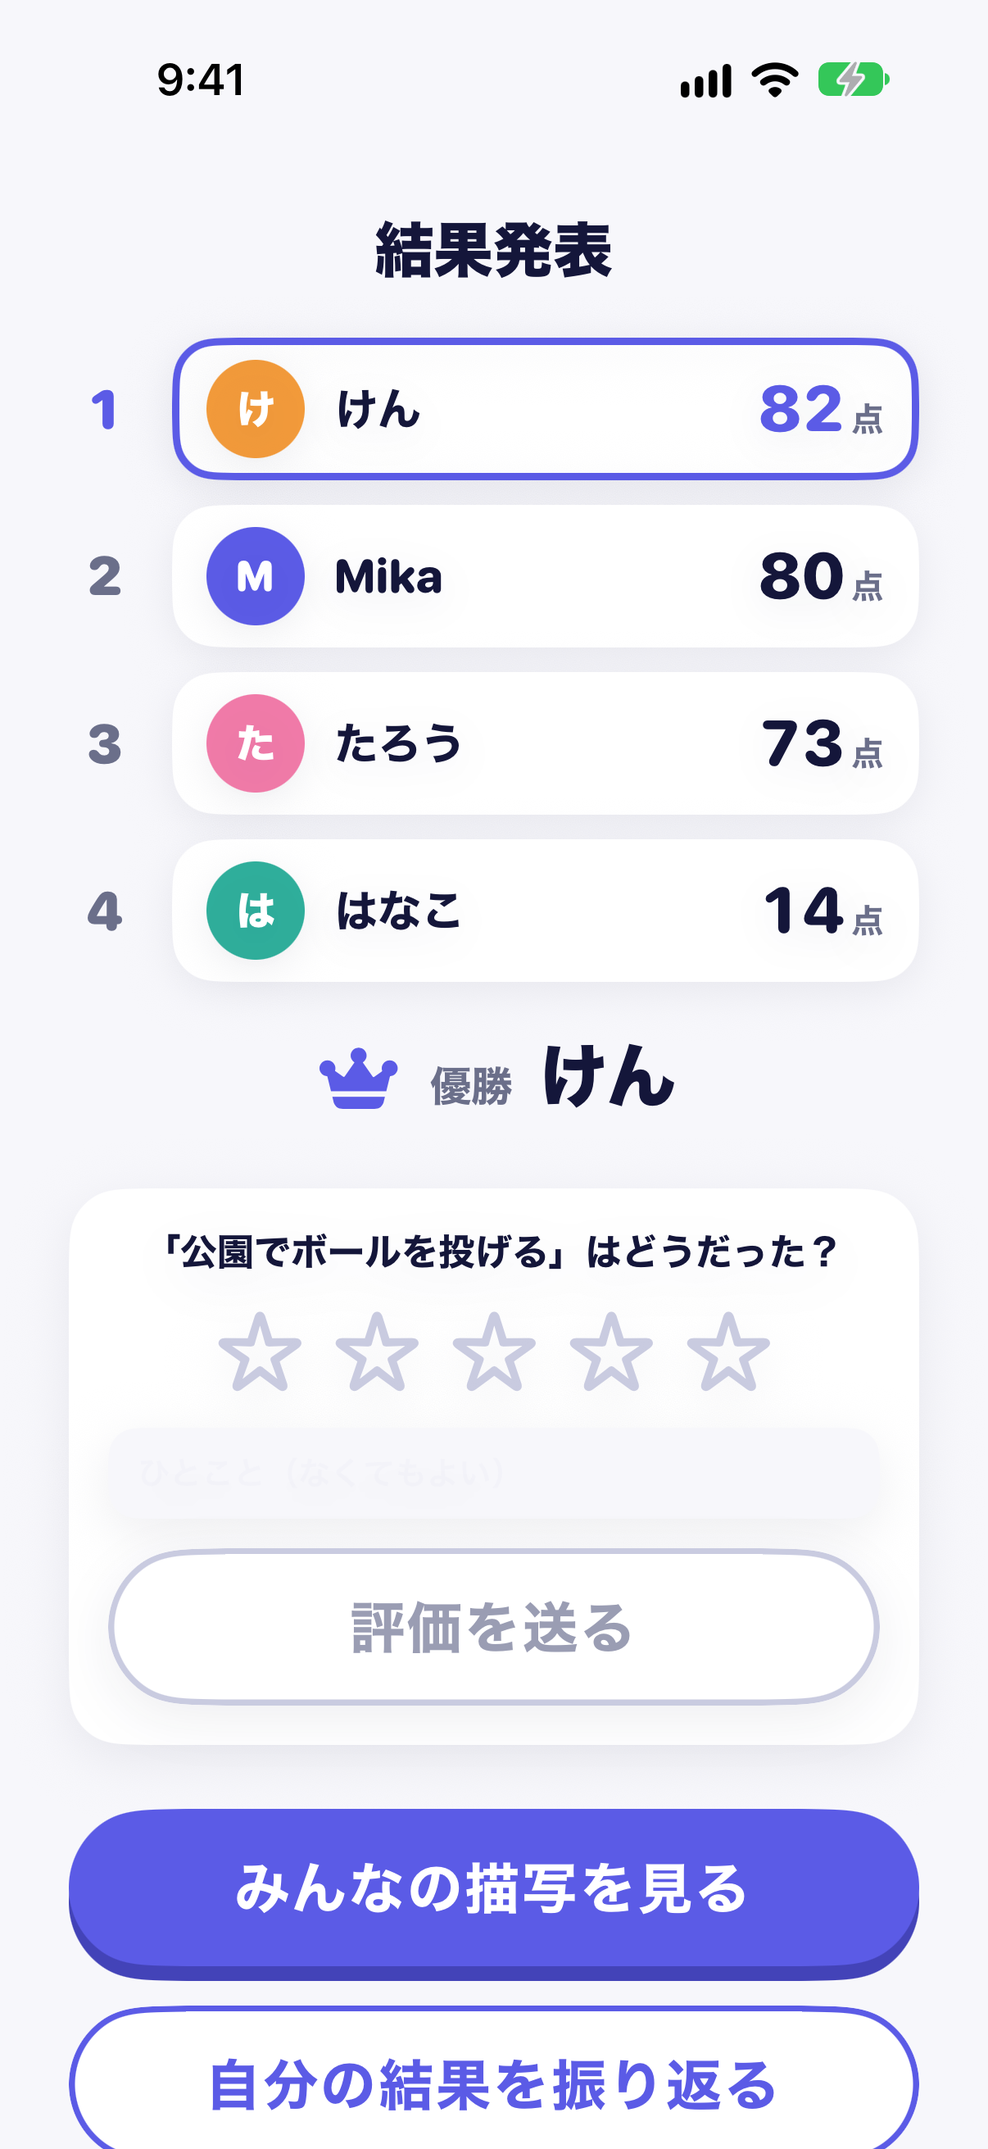
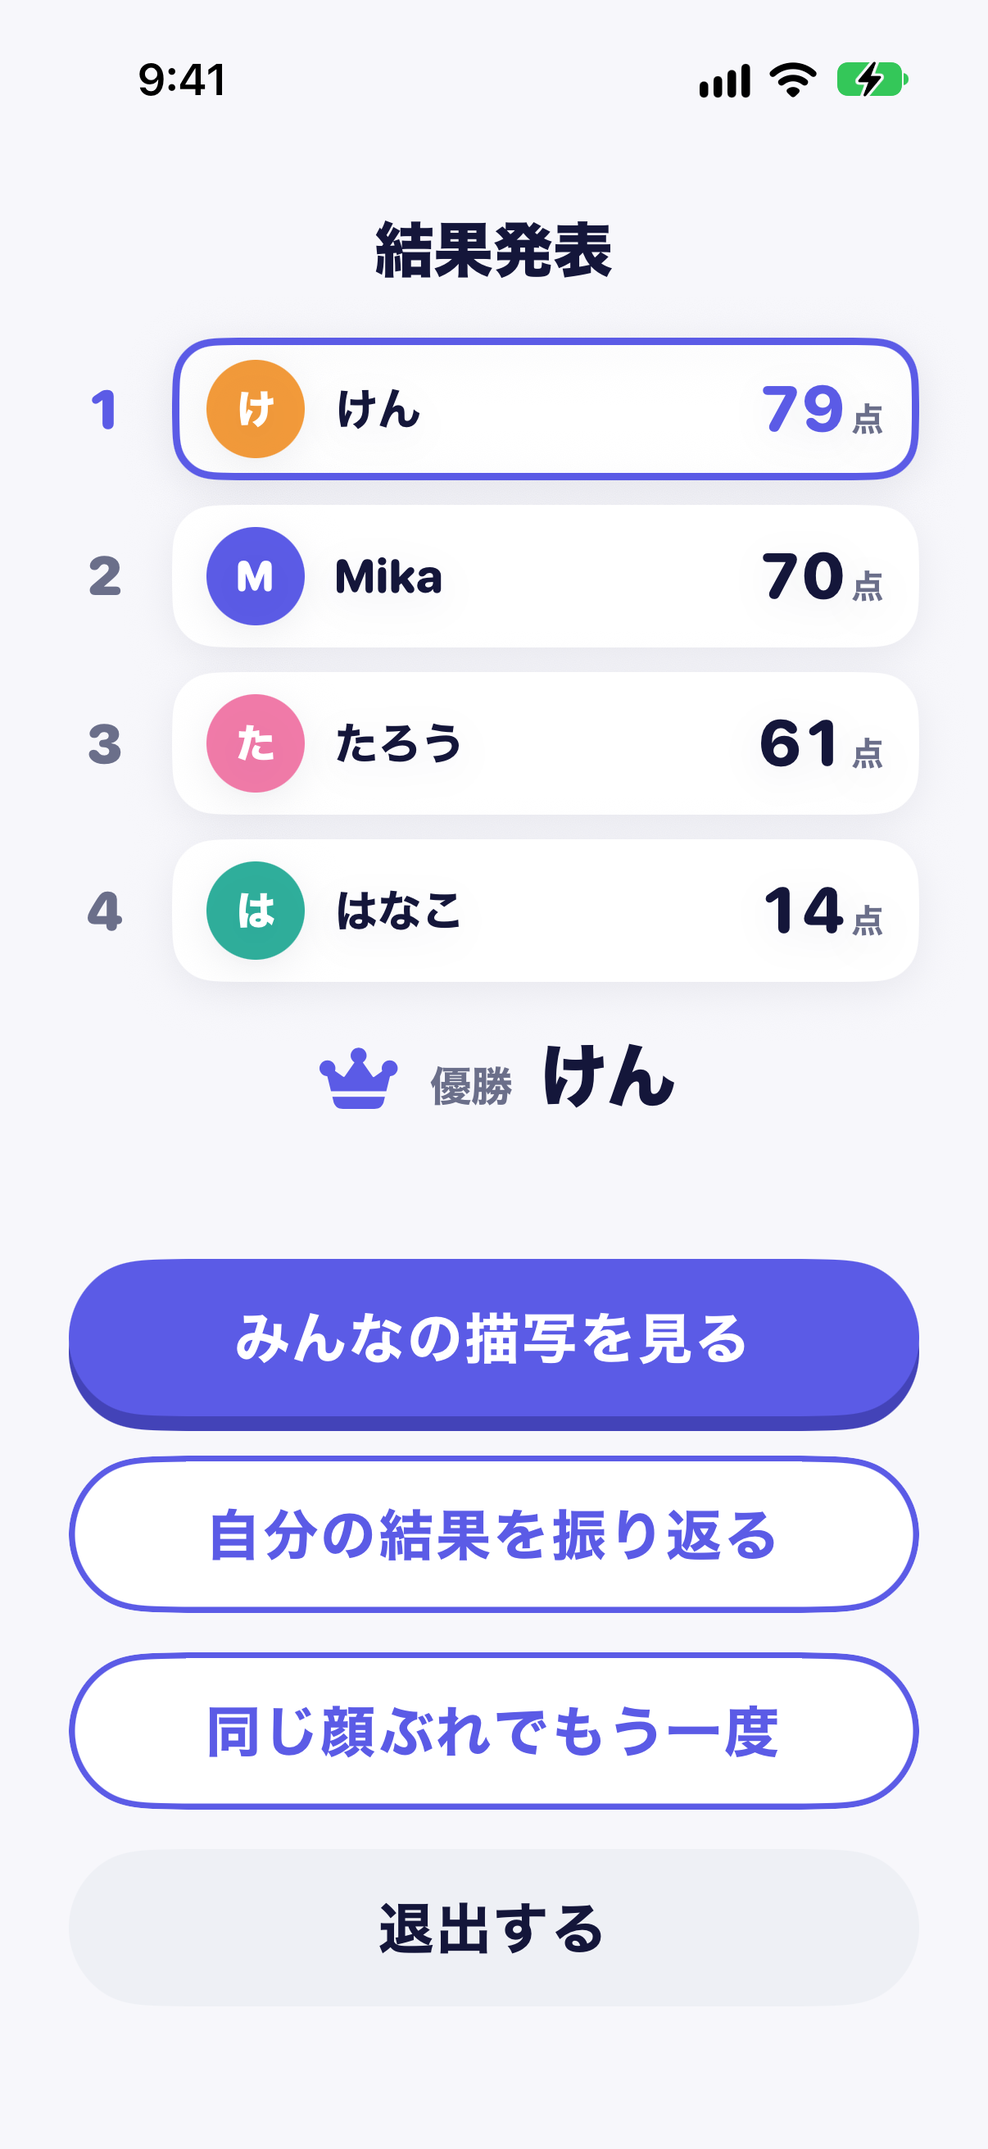
feat(ios): 結果の画面から場面の★評価を外す (#131)
## 概要

TestFlight 1.0.1 (4)
をチームで遊んだとき、結果の画面の「場面の★評価（★とコメントを送る）」のカードが「何のためにあるか分からない、邪魔」と声が出ました。リーダーの判断で、アプリから外します。サーバーの口とデータは残すので、戻せます。

## 変えたこと

### iOS
- 結果の画面（`RankingView`）から★評価のカードを外した。カードが無いときの並びは、もともと AI
で作った場面のときと同じ形で、人数が少なければボタンが下に寄り、8 人ならスクロールで全部のボタンに届く。
- 使わなくなったコードを消した: `SceneRatingCard.swift`（カードと
`StarPicker`）、`SceneReviewClient.swift`（口・HTTP の実装・Mock・端末ごとの
ID）、カードを出す判定だけに使っていた `ScenePool.contains(_:)` とそのテスト。
- ★評価のためだけに作っていた端末ごとの ID（UserDefaults の
`sceneReviews.reviewerID`）は、今の版では作らない。前の版で評価を送った端末に残っているキーは消さない（読みも送りもしない。戻すときに同じ端末の評価を上書きできる）。
- `PrivacyInfo.xcprivacy` はコメントだけ直した（申告の中身は今のコードと合っている）。

### 残したもの
- `backend/` は変えていない（GET・PUT `/scenes/:id/reviews`、Durable Object
`SceneReviews`、`openapi.json`）。Durable Object を消すには migration が要るため。
- ADR `20261024-store-scene-reviews-...`（保存先の決定）はそのまま。

### 文書（元の記述を残し、2026-11-13 に外したことと理由を書き足した）
- `PRIVACY_POLICY.md`:
評価は「評価の画面がある以前の版で送ったもの」とし、今の版（評価の画面が無い版）では作らず送らない、と書き分けた。端末に残すもの・削除の窓口の説明も事実に合わせた。
- `docs/app-store/README.md`: App のプライバシーの注記（今の版は端末の ID
を作らず送らないので、識別子の申告は要らない）、審査メモの英文から "and rate the scene" を消した（App Store
Connect の入力は次の提出で手で直す）。
- `README.md`: 振り返りの「★で評価できる」に打ち消し線と注記。今後の展望に「評価を戻すか、別の指標（例:
遊ばれた回数）で選ぶ」を足した。
- `docs/design/ui/screens/ranking.md`・`lobby.md`、画像
`docs/design/ui/images/6-ranking-app.png`
の差し替え、`docs/design/architecture.md`。

## 確かめ

- iOS の unit test（NG2622 Mock）181 件、`(cd backend && pnpm test)` 360 件。
- `ios/` に
[…]

diff --git a/ios/NG2622/Game/ScenePool.swift b/ios/NG2622/Game/ScenePool.swift
@@ -52,11 +52,6 @@ struct ScenePool {
     examples[difficulty].flatMap { (scenes[difficulty] ?? []).contains($0) ? $0 : nil }
   }
 
-  /// 作り置きの場面か（例も入る）。部屋がその場で AI で作った場面は入らない
-  func contains(_ sceneID: String) -> Bool {
-    scenes.values.contains { $0.contains(sceneID) }
-  }
-
   /// 出題の候補。例は外す
   func candidates(of difficulty: SceneDifficulty) -> [String] {
     (scenes[difficulty] ?? []).filter { $0 != examples[difficulty] }
@@ -91,7 +86,8 @@ struct ScenePool {
   /// アプリの中で作り置きの場面を置くフォルダ。ビルドのときに backend/src/scenes/pool から写す（project.yml の Copy scene pool）
   static let directory = "pool"
 
-  /// アプリに同梱した作り置きの場面（pool/index.json と pool/<sceneId>.json）。Mock の出題と、待合の例、シーンの評価を出すかに使う
+  /// アプリに同梱した作り置きの場面（pool/index.json と pool/<sceneId>.json）。Mock の出題、待合の例、
+  /// 起動したときの先読み（RootView）、ホームで回す場面（HomeView）、仮の結果と記録（MockResults・MockRecords）に使う
   static let bundled = ScenePool(bundle: .main)
 
   /// 作り置きの場面の一覧（backend/src/scenes/pool/index.json）の、1 つの難易度の分。

diff --git a/ios/NG2622/Result/RankingView.swift b/ios/NG2622/Result/RankingView.swift
@@ -33,13 +33,6 @@ struct RankingView: View {
               .transition(.scale(scale: 0.6).combined(with: .opacity))
           }
           Spacer(minLength: 28)
-          // 評価するのは作り置きの場面だけ。部屋がその場で AI で作った場面は使い回さないので評価しない
-          // （バックエンドも /scenes/{id}/reviews を受け付けない）
-          if winnerShown, let me = results.me, ScenePool.bundled.contains(results.sceneID) {
-            SceneRatingCard(sceneID: results.sceneID, sceneName: results.sceneName, playerName: me.name)
-              .padding(.bottom, 20)
-              .transition(.opacity)
-          }
           actions
             .padding(.bottom, 24)
         }

diff --git a/ios/NG2622Tests/ScenePoolTests.swift b/ios/NG2622Tests/ScenePoolTests.swift
@@ -133,10 +133,8 @@ struct ScenePoolTests {
         let layout = try await client.layout(sceneID: id)
         #expect(layout.difficulty == difficulty)
         #expect(!layout.checklist.isEmpty, "\(id) にチェックリストが無い")
-        #expect(pool.contains(id))
       }
     }
-    #expect(!pool.contains("park"))
     // pool/ の JSON はどれも index.json に載っている（載っていない場面は使われない）
     let files = (Bundle.main.urls(forResourcesWithExtension: "json", subdirectory: ScenePool.directory) ?? [])
       .map { $0.deletingPathExtension().lastPathComponent }.filter { $0 != "index" }

diff --git a/ios/NG2622/Game/RoundResults.swift b/ios/NG2622/Game/RoundResults.swift
@@ -3,7 +3,7 @@ import Foundation
 /// 1 ラウンドの結果。全員の採点がそろうか、部屋が時間で締め切ると届く。
 /// 結果の画面（結果発表・みんなの描写・振り返り）はこれだけを見る
 struct RoundResults: Sendable, Equatable {
-  /// 遊んだシーンの ID（シーンの評価と、振り返りの見本の答えに使う）
+  /// 遊んだシーンの ID（振り返りの見本の答えなどに使う）
   let sceneID: String
   /// 遊んだシーンの名前（例: 公園）
   let sceneName: String

diff --git a/docs/design/architecture.md b/docs/design/architecture.md
@@ -67,12 +67,12 @@ sequenceDiagram
 | `GET /rooms/:id/ws` | WebSocket | 部屋に入る。最初に `join`（名前とアバターの色。ホストと復帰する人は参加者 ID と合言葉も）を送る。以後、部屋の状態・開始・進み具合・結果を受け取る |
 | `POST /rooms/:id/rounds/:n/audio` | HTTP | 自分の音声（WAV、最長 20 秒、約 0.6 MB）を本文にそのまま載せて送る。参加者 ID と合言葉をヘッダーに付ける。すぐ 202 を返し、採点は裏で続ける |
 | `GET /scenes/:id/layout` | HTTP | 作り置きの場面の配置の JSON（`scenenglish.scene/2`）を、`backend/src/scenes/pool/` の JSON のまま返す。round で届いた場面を組み立てるのに使う。部屋が AI で作った場面は `?room=<部屋のコード>` を付けて取る。無い場面は 404 `unknown_scene` |
-| `GET /scenes/:id/reviews` | HTTP | シーンの評価（★とコメント）を新しい順に返す |
+| `GET /scenes/:id/reviews` | HTTP | シーンの評価（★とコメント）を新しい順に返す（アプリの画面からは呼んでいなかった。2026-11-13 にアプリの評価の口を消した後も、下の `PUT` と同じくサーバーの口は残す） |
 | `GET /parts` | HTTP | 部品のメタデータの一覧（Worker に同梱した一覧） |
 | `GET /title` | HTTP | タイトル画面（ホーム）に今出す 3D（`{ title: { id, caption, model, sha256, expiresAt } }` か `{ title: null }`）。予定（`backend/src/title/schedule.json`）のうち、環境の変数 `TITLE_CAMPAIGN` に入っていて、サーバーの時刻で期間の中のもの。本番は空で null、staging だけ付ける。id は予定の id と 3D の sha256 の先頭 8 文字。`expiresAt` は秒までの UTC。アプリは起動時と前に戻ったときに毎回呼び、id が変われば取り直し、期限を過ぎたら端末で消す（[ADR](../adr/20261113-decide-title-diorama-on-server-with-expiry.md)） |
 | `GET /title/<file>` | HTTP（静的アセット） | タイトル画面の 3D（USDZ）。repo の `assets/title/*.usdz` を Worker の静的アセットとして一緒にデプロイして配る（`assets/.assetsignore` でそれだけに絞る）。`GET /title` の `model` がこの URL を指す |
 | `POST /scenes/generate` | HTTP | 作り置きのスクリプト（手元）が使う。級（`difficulty`）とテーマから、Claude が 2 段（見本の答えとチェックリスト → 部品と関係）で書き、バックエンドが裏取りをして座標に直した配置の JSON（`scenenglish.scene/2`）を返す（保存しない）。合言葉が要る。形は [`scene-protocol.md`](./scene-protocol.md) |
-| `PUT /scenes/:id/reviews` | HTTP | シーンを評価する（★ 1〜5、コメントは 200 文字までで任意）。端末ごとの ID を付け、同じ ID で送り直すと上書きする（結果発表の下で送る） |
+| `PUT /scenes/:id/reviews` | HTTP | シーンを評価する（★ 1〜5、コメントは 200 文字までで任意）。端末ごとの ID を付け、同じ ID で送り直すと上書きする（結果発表の下で送る）。2026-11-13 にアプリから評価のカードを外し、アプリは送らなくなった（理由: 結果の画面のノイズ。[`ui/screens/ranking.md`](./ui/screens/ranking.md) の「決定」）。口と、送られた評価は残してあり、戻せる |
 | `POST /weak-points` | HTTP | 苦手の分析。端末に残した直近の記録（内容の内訳のある 5〜10 件）の文字（文字起こし・描写の判定・言い直し・次の一つ・級・表現の根拠と、場面の見本の答え・言えなかった項目）と、端末で数えた値を送ると、Claude（Sonnet 5.5 の low）がくり返す癖（最大 3 件、自分の文の実例つき）・前より良くなった点・次の 1 回で試すことを書いて返す。実例の引用はバックエンドが文字起こしと照らして確かめ、無いものは返さない。録音・名前・端末の ID は送らず、サーバーは保存しない。認証は無く、本文の大きさ・IP ごとの 1 時間の回数・全体の 1 日の回数の上限と、止めるスイッチ（`WEAK_POINT_ANALYSIS`）で守る（[`weak-point-analysis.md`](./weak-point-analysis.md)） |
 | `POST /score` | HTTP | 配置の JSON（`layout` の `difficulty`・`checklist`・`items`・`description`）と文字起こしを送ると、部屋の採点と同じチェックリストの採点で、内容と表現の点・内容の内訳・講評を返す。話し方の点は付けないが、Azure の 3 つの点（`speech`）を送ると次に伸ばす一つに話し方も選ばれる。手元で試すときだけ開く（`ENABLE_DEV_ROUTES`）（[ADR](../adr/20261111-score-only-with-checklist-and-drop-handmade-scenes.md)） |
 
@@ -92,7 +92,7 @@ WebSocket のメッセージ（ThatsFight の `src/shared/protocol.ts` に倣う
 - タイトル画面の 3D だけは、サーバーが期間つきで出すものを決め、アプリは取った 3D を端末のキャッシュ（Caches）に置き、期限（`expiresAt`）を過ぎたら消す（2026-11-13 に決定。[ADR](../adr/20261113-decide-title-diorama-on-server-with-expiry.md)）。送る情報は無い。
 - サーバーは、音声を保存しない（採点が終われば捨てる）。部屋の中の採点の結果は、部屋が閉じたら消す。長く保存しない。
 - 端末には、遊んだ本人の記録を残す（2026-11-12 に決定。[ADR](../adr/20261112-keep-play-records-on-device-one-file-per-round.md)）。自分の採点の結果が届いたら、場面の配置の JSON・自分の結果・自分の録音を、アプリ用の領域に 1 ラウンド 1 ファイルで置く。順位とほかの人の結果は入れない。サーバーへは、苦手の分析（`POST /weak-points`）のときだけ、直近の記録の文字（録音は除く）を送り、サーバーには残さない（2026-11-13。[`weak-point-analysis.md`](./weak-point-analysis.md)）。形と消し方は [`play-record.md`](./play-record.md)。
-- シーンの評価（★とコメント）は、全体で 1 つの Durable Object `SceneReviews` の SQLite に残す（[ADR](../adr/20261024-store-scene-reviews-in-a-global-durable-object.md)）。今後のユーザーが作るシーンも同じ表に足す。
+- シーンの評価（★とコメント）は、全体で 1 つの Durable Object `SceneReviews` の SQLite に残す（[ADR](../adr/20261024-store-scene-reviews-in-a-global-durable-object.md)）。今後のユーザーが作るシーンも同じ表に足す。2026-11-13 にアプリから評価を外した（結果の画面のノイズになるため）。表と口は残してあり、戻せる。評価のためだけに端末で作っていた ID（`sceneReviews.reviewerID`）も、アプリは作らなくなった。
 
 ## コスト破産への備え（[`cost-safety.md`](./cost-safety.md) の具体化）
 

diff --git a/docs/design/ui/screens/lobby.md b/docs/design/ui/screens/lobby.md
@@ -36,7 +36,7 @@ exits = [
 - 1 部屋の人数の上限は 5 人（2026-10-24）。仮の画面の「参加者 2/8」は「2/5」になる（v1 の仮の画面の話。今の画像には人数の表示は無い）。
 - 部屋のコードは数字 4 桁（2026-10-24）。
 - シーンの選び方（2026-10-24、アプリに実装。2026-11-11 に変更、下の難易度だけの形に置き換えた）: ホストの待合だけに「シーン」のカードを出す。右上に「おまかせ」、その下にサムネイル（`assets/scenes/<id>.png`）と名前を横に 3 つ並べ、選んだものはアクセントの紫で囲む。既定は「おまかせ」で、シーンを選ぶまでスタートを押せない形にはしない（ホストが 1 回多く押さずに済むため）。選んだシーンは `start` の `sceneId` で送り、「おまかせ」なら省いて部屋の側がランダムに選ぶ。参加者には前もって見せず、ラウンドが始まったとき（`round`）に全員の画面に出る。理由: バックエンドの API（`start` の `sceneId`）にそのまま合い、選択を伝えるメッセージを足さずに済むため。
-- シーンの一覧には評価の星を出さない（2026-10-25 に決定）。選ぶときに星で迷わせないため。評価は結果の画面のカードで付ける。
+- シーンの一覧には評価の星を出さない（2026-10-25 に決定）。選ぶときに星で迷わせないため。評価は結果の画面のカードで付ける。（2026-11-13 に、結果の画面の評価のカードもアプリから外した。結果の画面のノイズになるため。サーバーの口とデータは残してあり、戻せる。[`ranking.md`](./ranking.md) の「決定」）
 - 難易度で選ぶ形は（2026-11-11 に変更。設定での切り替えは無くなる）、アプリの設定 1 つ（Mock は難易度、Live は今の一覧）で切り替えられるように先に入れ、Mock で確かめる。本番に作り置きが入るときに Live も切り替える（2026-10-25 に決定）。
 - Live も難易度だけを選ぶ形にした（2026-10-25 に決定）。ホストは start で難易度だけを送り、場面は部屋が作り置き（`backend/src/scenes/pool`）から選んで round の sceneId で配る。待合の例の場面は Mock と同じく同梱の一覧から絵だけ出し、バックエンドは呼ばない。配置の JSON は同梱を先に見て、無い場面だけ `GET /scenes/{sceneId}/layout` で取る。手作りの一覧（`SCENE_PICK = list`）は設定で戻せるように残し、後の PR で外す。
 - 難易度だけを選ぶ形に変える（2026-10-25 に決定。2026-11-11 に本番に入れることにした）: 作り置きの場面と新しい採点が本番に入ったら、「シーン」のカードを難易度（かんたん・ふつう・むずかしい）の選択に替える。場面は部屋がその部屋でまだ出ていないものからランダムに選び、名前もサムネイルもスタートまで見せない。手作りの 6 場面はそのときに外す。理由: ホストだけが中身を知って有利になるのを防ぐため（`scene-protocol.md` の「AI で場面を作り置く」）。

diff --git a/docs/design/ui/screens/ranking.md b/docs/design/ui/screens/ranking.md
@@ -5,7 +5,7 @@ group = "result"
 order = 70
 image = "6-ranking-app.png"
 status = "実装済み"
-status_note = "feat/eiken-switch に入っている。画像は今のアプリ（Mock）のスクリーンショット。"
+status_note = "feat/eiken-switch に入っている。画像は今のアプリ（Mock）のスクリーンショット。2026-11-13 に、場面の★評価のカードを外した後の画面（ホスト・4 人）に替えた。"
 role = "全員の画面に同じ順位表を出し、最下位から 1 行ずつパタパタ表示で開いて、最後に優勝を出す。"
 main_actions = ["発表を見る", "「発表をとばす」", "「みんなの描写を見る」", "「自分の結果を振り返る」", "（ホスト）「同じ顔ぶれでもう一度」", "退出する"]
 data_shown = ["順位・名前・合計点", "優勝者"]
@@ -24,9 +24,11 @@ exits = [
 +++
 
 ## 課題
+- 優勝の下に出していた場面の★評価のカード（「「<場面の名前>」はどうだった？」・★ 1〜5・ひとことのコメント（任意）・「評価を送る」）が、何のためにあるか分からず、邪魔だった（2026-11-13、チームで遊んだときの声）。
 
 ## 改善案
 
 ## 決定
+- 場面の★評価のカードは、2026-11-13 にアプリから外した。理由: 結果の画面のノイズになっていたため。下の行の「よく見る画面はシンプルにして文字を書かない」方針（[`screen-flow.md`](../../screen-flow.md)）にも合う。カードは PR #36（2026-10-24）で入れ、#123 から作り置きの場面のときだけ、優勝の下・ボタンの上に出し、★とコメントを `PUT /scenes/{sceneId}/reviews` で送っていた。サーバーの口（`GET`・`PUT /scenes/{sceneId}/reviews`）と、送られた評価（Durable Object `SceneReviews`）は残してあり、戻せる。カードが無いときの並びは、AI で作った場面のときと同じ（優勝の下は空けて、ボタンを下に寄せる）。
 - 結果発表は今までどおり、順位・名前・合計の点だけを出す（2026-11-11）。方針（2026-11-11 のレビュー）: よく見る画面はシンプルにして文字を書かない。具体的な情報は、たまに見る振り返りに置く。 いったん検討した、人ごとのカードに内容・表現・話し方の棒・「チェック n つ ・ 一部 n つ ・ 合わない n つ」・重みの行（内容 50% ・ 表現 25% ・ 話し方 25%）・自分のカードの「あなた」の札を出す形はやめ、v1 の「自分の行に印を付けない」に戻す。3 つの軸とチェックの中身は振り返りで見る。
 - 重み（内容 50%・表現 25%・話し方 25%）の説明は、将来「採点方法について」の画面に置く（2026-11-11。今回は作らない）。
